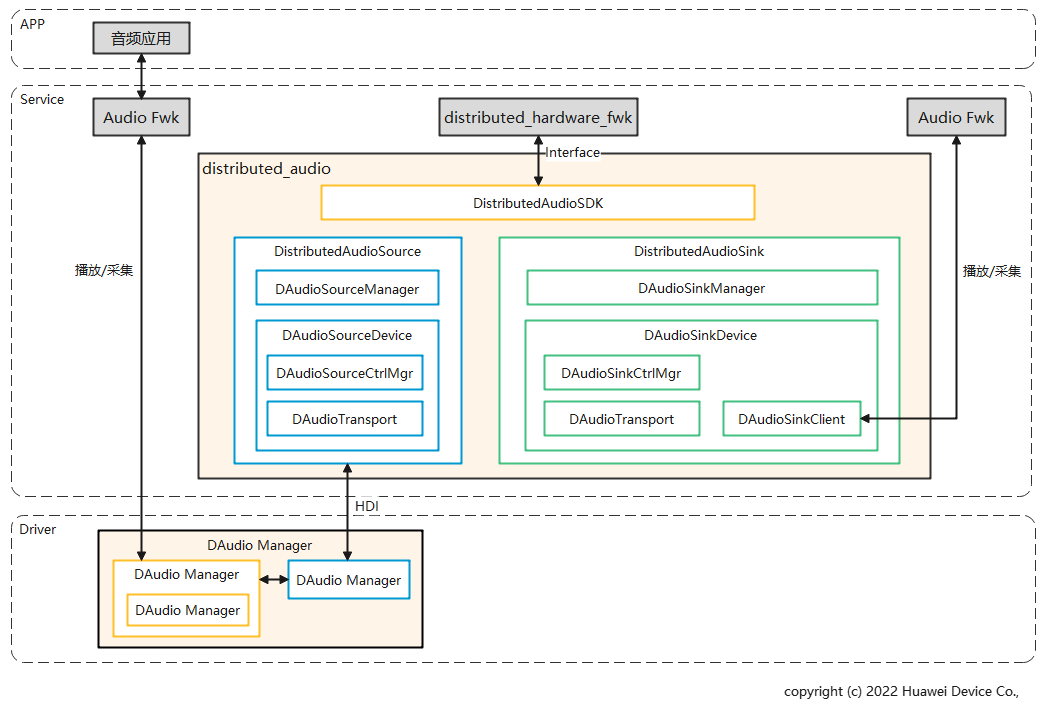
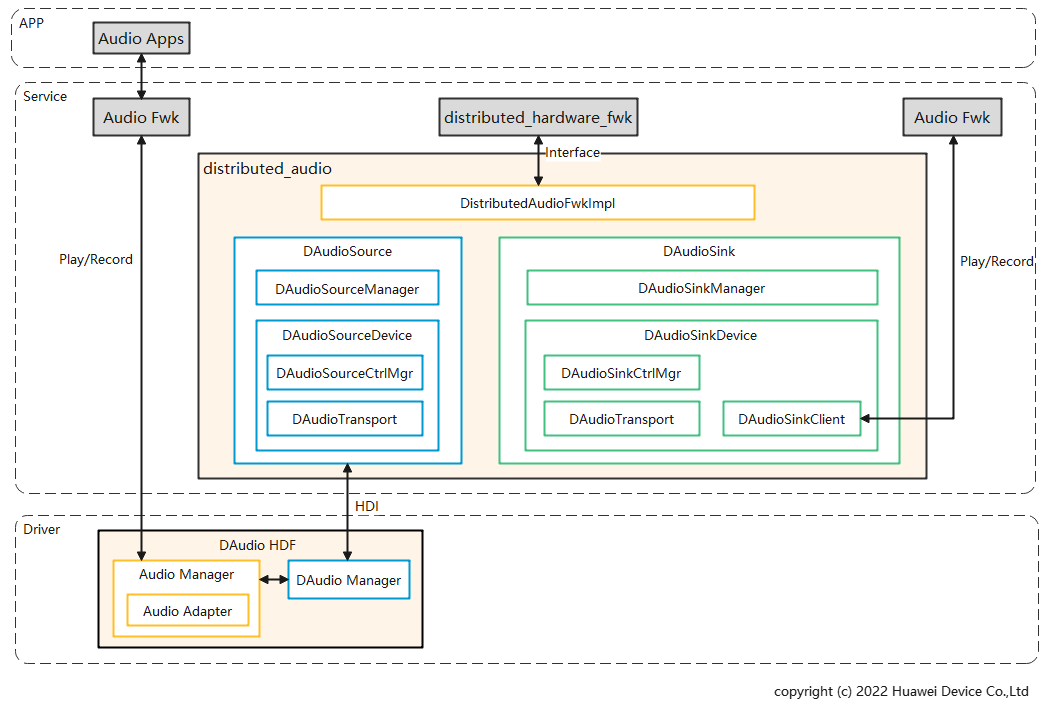
Description: modify readme (sdk -> fwkImpl)
Match-id-472e415b523aeab16e3c768a52eee8333dca7280

diff --git a/README_zh.md b/README_zh.md
@@ -8,7 +8,7 @@
 
 ![](figures/distributedaudio_arch.png)
 
-**分布式音频接口(DistributedAudioSDK)**：为分布式硬件管理框架提供分布式音频初始化、释放、使能、去使能能力，以及音频设备配置参数能力。
+**分布式音频框架实现(DistributedAudioFwkImpl)**：为分布式硬件管理框架提供分布式音频初始化、释放、使能、去使能能力，以及音频设备配置参数能力。
 
 **分布式音频主控端管理模块(DAudioSourceManager)**：管理和创建主控端Fwk层分布式音频设备实体。
 
